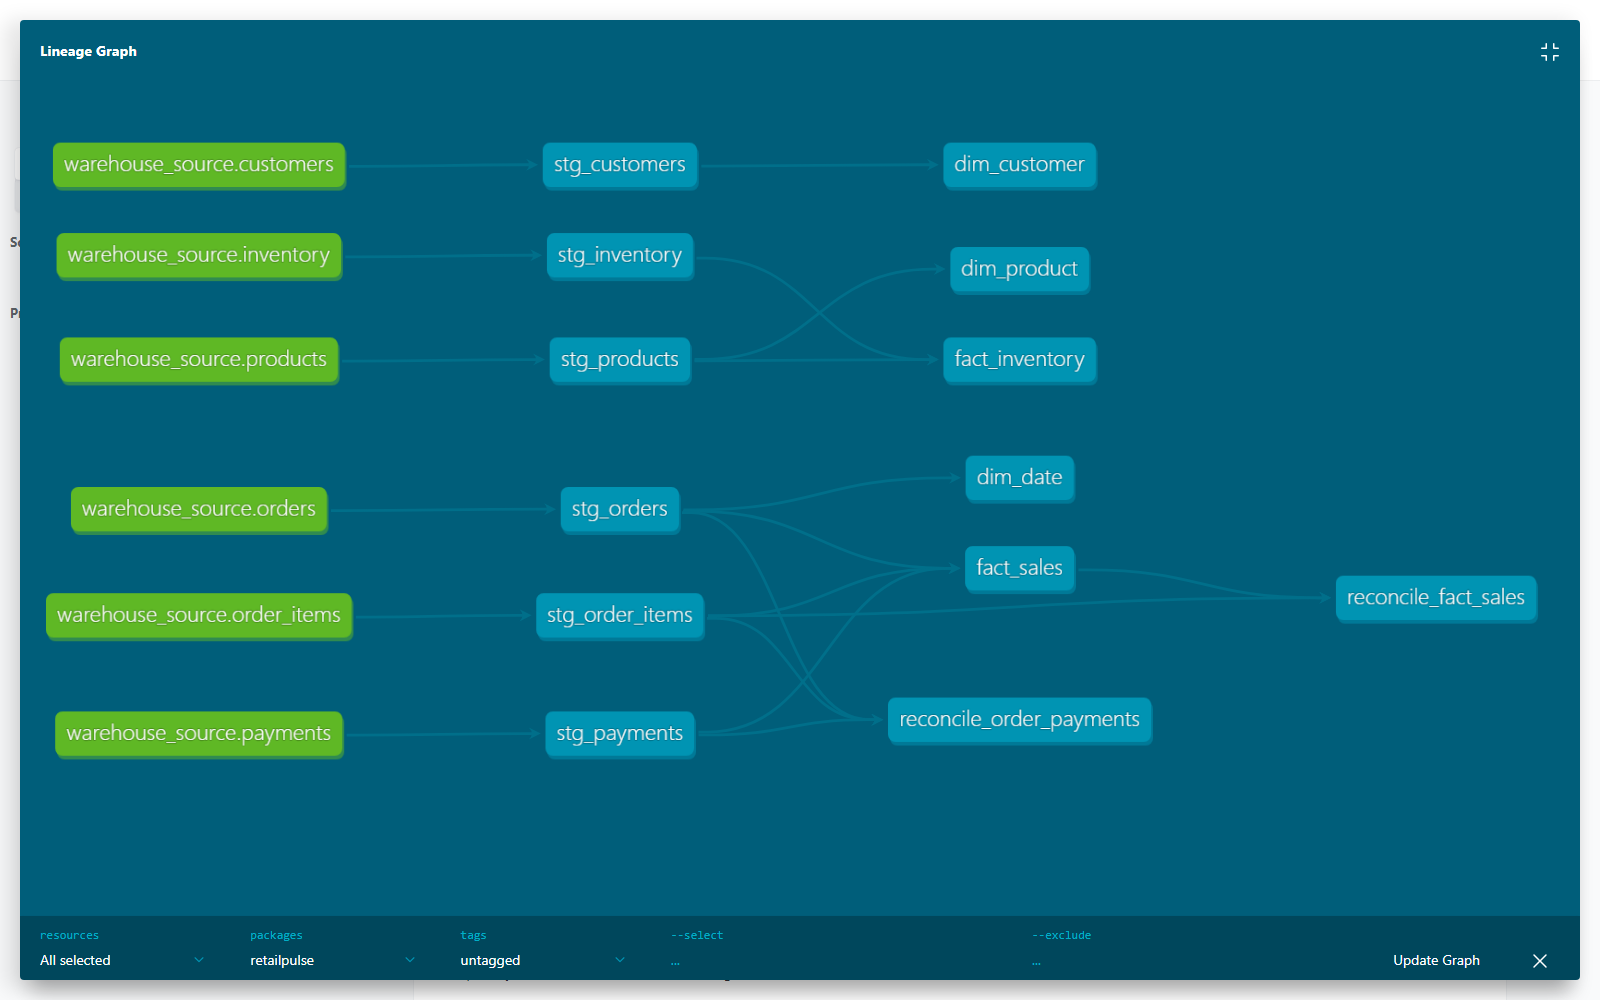
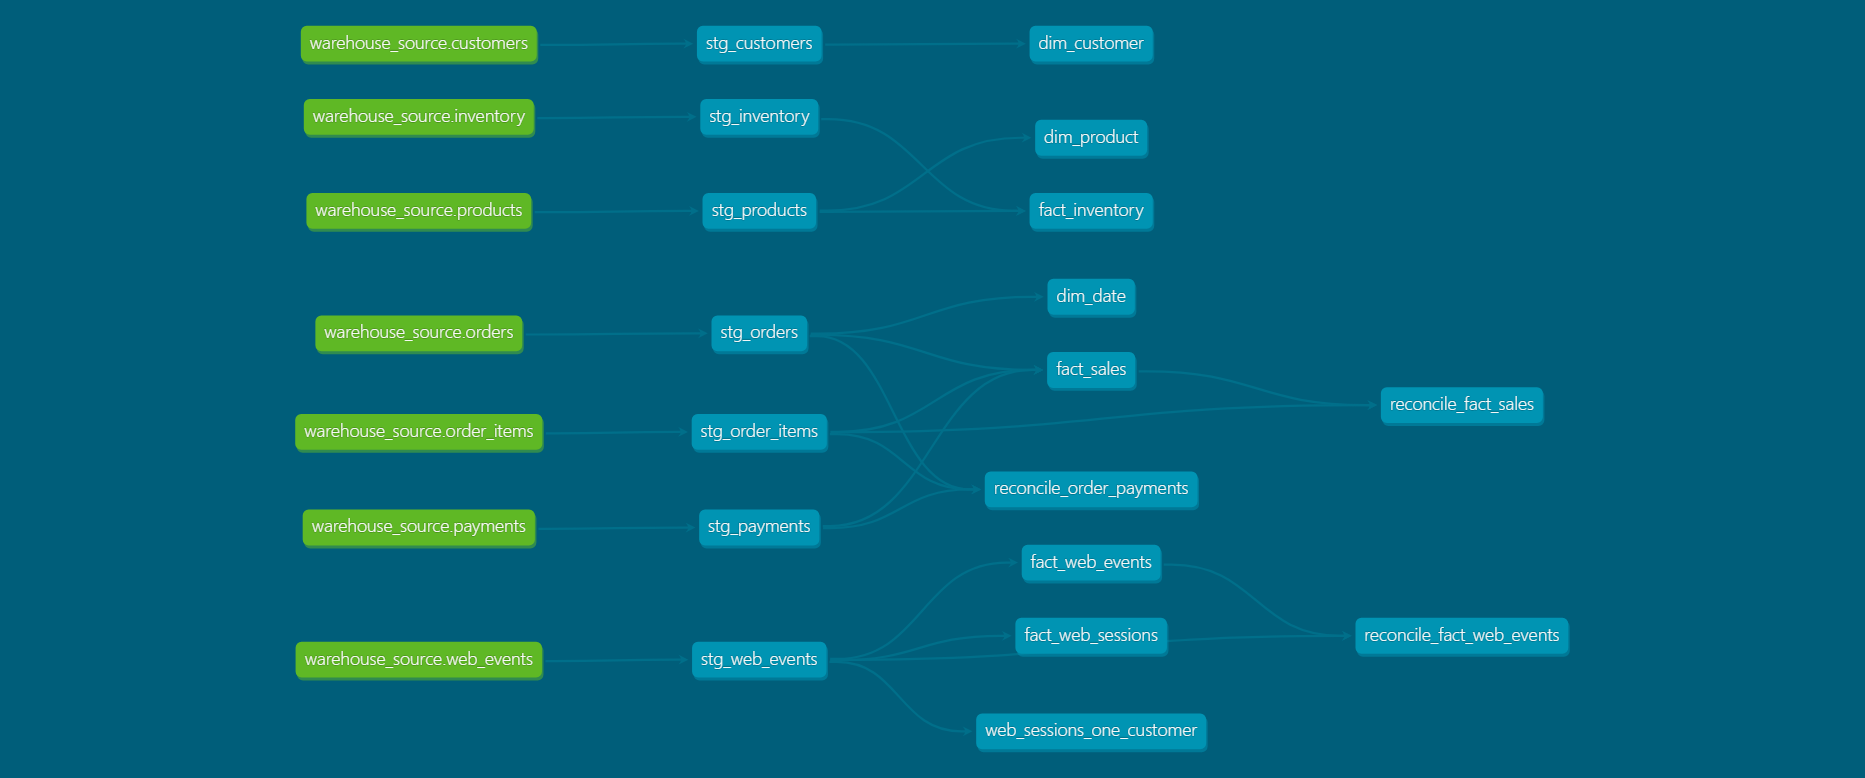
docs: close RetailPulse v2.0 release

diff --git a/README_EN.md b/README_EN.md
@@ -16,7 +16,7 @@ RetailPulse reproduces that process with controlled relational synthetic data.
 
 ## Current status
 
-Stable v1.0 batch pipeline. Streaming v2.0 in development.
+Stable RetailPulse v2.0: completed batch pipeline and Kafka streaming vertical.
 
 Included:
 
@@ -60,11 +60,11 @@ More detail: [`docs/architecture.md`](docs/architecture.md).
 
 The v2.0 streaming vertical runs manually and is not yet part of this DAG.
 
-### dbt batch v1.0 model lineage
+### dbt model lineage in v2.0
 
 ![RetailPulse lineage in dbt](dashboards/screenshots/dbt_lineage.png)
 
-The screenshot is the v1.0 visual reference; the current project also includes `stg_web_events`, `fact_web_events` and `fact_web_sessions`.
+The lineage includes the batch models together with `stg_web_events`, `fact_web_events` and `fact_web_sessions`.
 
 ## Stack
 
@@ -300,7 +300,7 @@ The pipeline architecture, project scope, result validation, final decisions, an
 - Kafka uses three brokers to demonstrate local replication and failover, without claiming production operations.
 - Batch tables use full refresh / replace; `warehouse_source.web_events` uses idempotent append by `event_id`.
 - There is no CDC or incremental dbt model.
-- There is no dashboard in v1.0.
+- The current scope does not include a dashboard.
 - Airflow is local/dev only.
 - There are no SCDs or semantic metrics layer.
 - CI runs the reduced batch pipeline and idempotent streaming load against real PostgreSQL, followed by `dbt build`; the Kafka broker and Airflow are validated separately in local development.

diff --git a/README.md b/README.md
@@ -16,7 +16,7 @@ RetailPulse reproduce ese proceso con datos sintéticos relacionales y controlad
 
 ## Estado actual
 
-Pipeline batch v1.0 estable. Streaming v2.0 en desarrollo.
+RetailPulse v2.0 estable: pipeline batch y vertical streaming con Kafka completados.
 
 Incluye:
 
@@ -60,11 +60,11 @@ Más detalle: [`docs/architecture.md`](docs/architecture.md).
 
 La vertical streaming v2.0 se ejecuta manualmente y todavía no forma parte de este DAG.
 
-### Linaje batch v1.0 de modelos dbt
+### Linaje de modelos dbt en v2.0
 
 ![Linaje de RetailPulse en dbt](dashboards/screenshots/dbt_lineage.png)
 
-La captura es la referencia visual de v1.0; el proyecto actual añade `stg_web_events`, `fact_web_events` y `fact_web_sessions`.
+El linaje incluye tanto los modelos batch como `stg_web_events`, `fact_web_events` y `fact_web_sessions`.
 
 ## Stack
 
@@ -300,7 +300,7 @@ La arquitectura del pipeline, el alcance del proyecto, la validación de resulta
 - Kafka usa tres brokers para demostrar replicación y failover local, sin pretender una operación productiva.
 - Las tablas batch usan full refresh / replace; `warehouse_source.web_events` usa append idempotente por `event_id`.
 - No hay CDC ni modelos dbt incrementales.
-- No hay dashboard en v1.0.
+- El alcance actual no incluye dashboard.
 - Airflow es local/dev.
 - No hay SCD ni capa semántica de métricas.
 - CI ejecuta el pipeline batch reducido y la carga streaming idempotente con PostgreSQL real, además de `dbt build`; el broker Kafka y Airflow se validan por separado en local.

diff --git a/docs/limitations.md b/docs/limitations.md
@@ -35,7 +35,7 @@ Limitaciones:
 - sin catálogo de datos.
 - sin control de permisos por capa.
 - sin versionado de objetos.
-- sin almacenamiento tipo S3/MinIO en v1.0.
+- sin almacenamiento tipo S3/MinIO en el alcance actual.
 - sin control robusto de concurrencia.
 
 ## ES — Ingesta full snapshot
@@ -101,7 +101,7 @@ Limitaciones:
 
 ## ES — Herramientas fuera del alcance actual
 
-No forman parte de v1.0:
+No forman parte del alcance actual:
 
 - dashboard.
 - Spark.
@@ -156,7 +156,7 @@ Limitations:
 - no data catalog.
 - no layer-level permission model.
 - no object versioning.
-- no S3/MinIO storage in v1.0.
+- no S3/MinIO storage in the current scope.
 - no robust concurrency control.
 
 ## EN — Full snapshot ingestion
